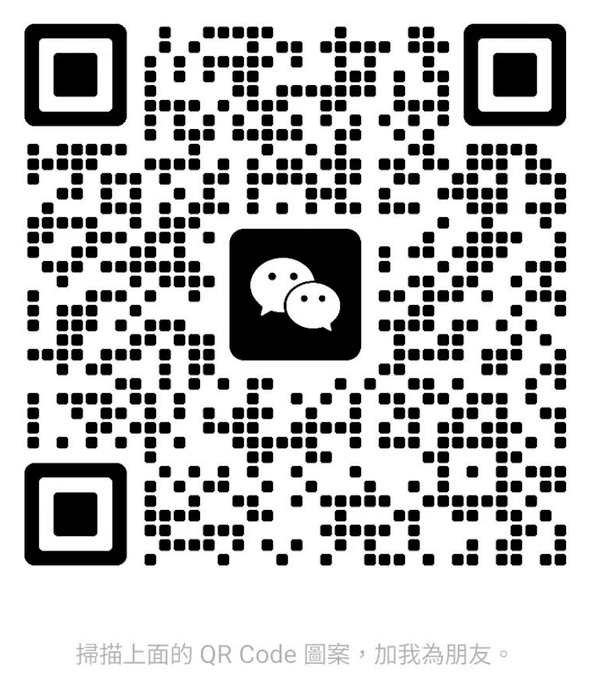
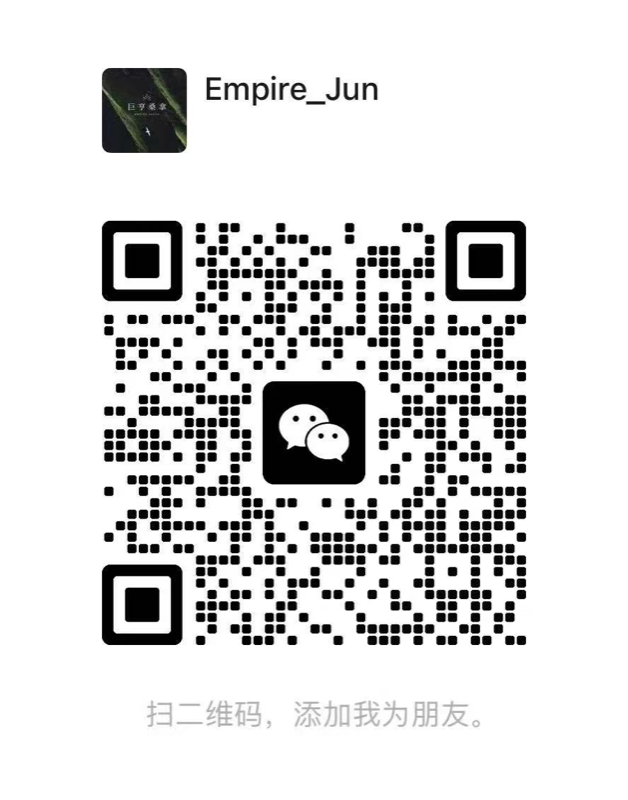
Update WeChat QR and Telegram t.me link
Replace wechat-qr.png with new QR; open Telegram via
https://t.me/+85362081126 across booking buttons.

diff --git a/src/lib/site.ts b/src/lib/site.ts
@@ -1,8 +1,10 @@
 export const CONTACT = {
   /** Display + wa.me digits (spaces optional). */
   whatsapp: "+853 6208 1126",
-  /** @username or phone with country code. */
+  /** Display label for Telegram. */
   telegram: "+853 6208 1126",
+  /** Direct open link (t.me). */
+  telegramUrl: "https://t.me/+85362081126",
   /** Full LINE add-friend URL (ID: empire_sauna02). */
   line: "https://line.me/ti/p/~empire_sauna02",
   /** LINE ID shown on contact page. */
@@ -23,17 +25,13 @@ export function waLink(locale: "zh-Hant" | "zh-CN", prefill?: string) {
   return `https://wa.me/${phoneDigits(CONTACT.whatsapp)}?text=${encodeURIComponent(text)}`;
 }
 
-/** Telegram: @username → t.me; phone → tg://resolve (opens app). */
+/** Telegram open link (prefills message when supported). */
 export function tgLink(locale: "zh-Hant" | "zh-CN", prefill?: string) {
   const text = prefill ?? (locale === "zh-CN" ? CONTACT.waTextHans : CONTACT.waText);
-  const tg = CONTACT.telegram.trim();
-  const q = text ? `?text=${encodeURIComponent(text)}` : "";
-  if (tg.startsWith("@")) {
-    return `https://t.me/${tg.slice(1)}${q}`;
-  }
-  const phone = phoneDigits(tg);
-  // Phone chats open most reliably via the Telegram app deep link.
-  return `tg://resolve?phone=${phone}`;
+  const base = CONTACT.telegramUrl.replace(/\/$/, "");
+  if (!text) return base;
+  const sep = base.includes("?") ? "&" : "?";
+  return `${base}${sep}text=${encodeURIComponent(text)}`;
 }
 
 export type Locale = "zh-Hant" | "zh-CN";
